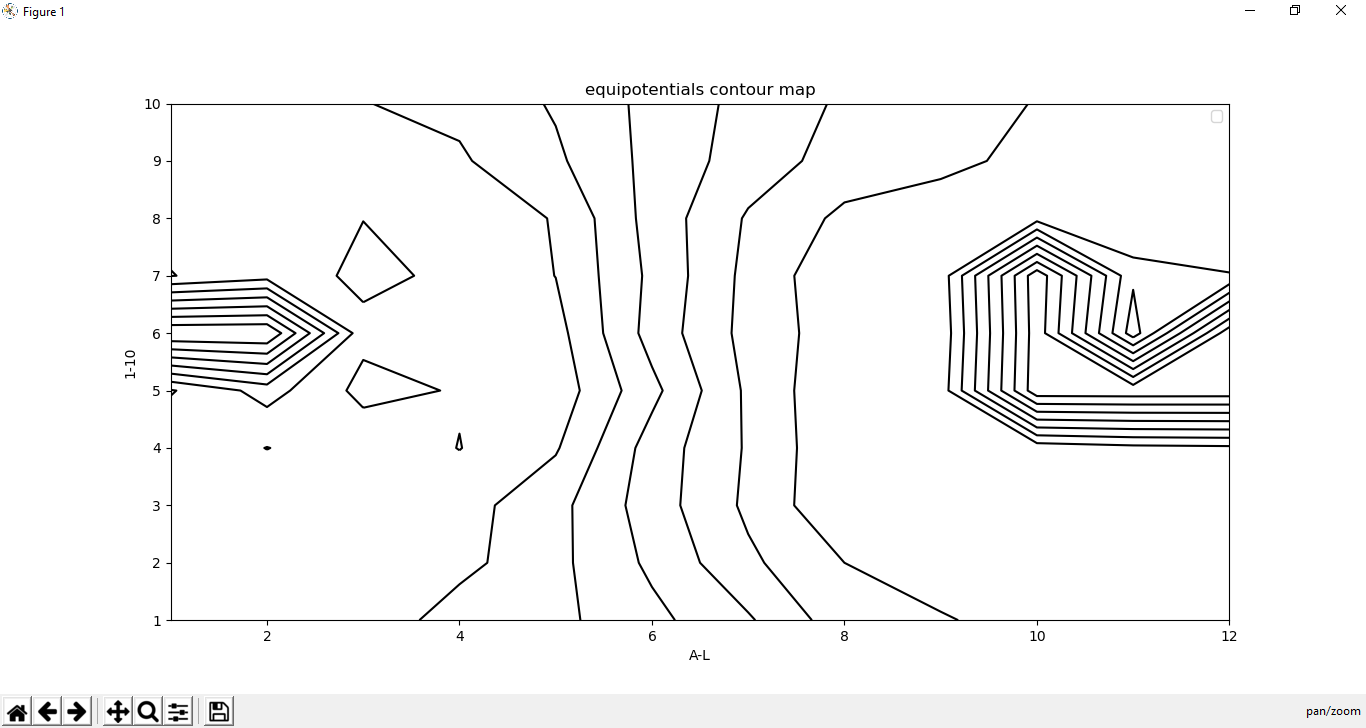
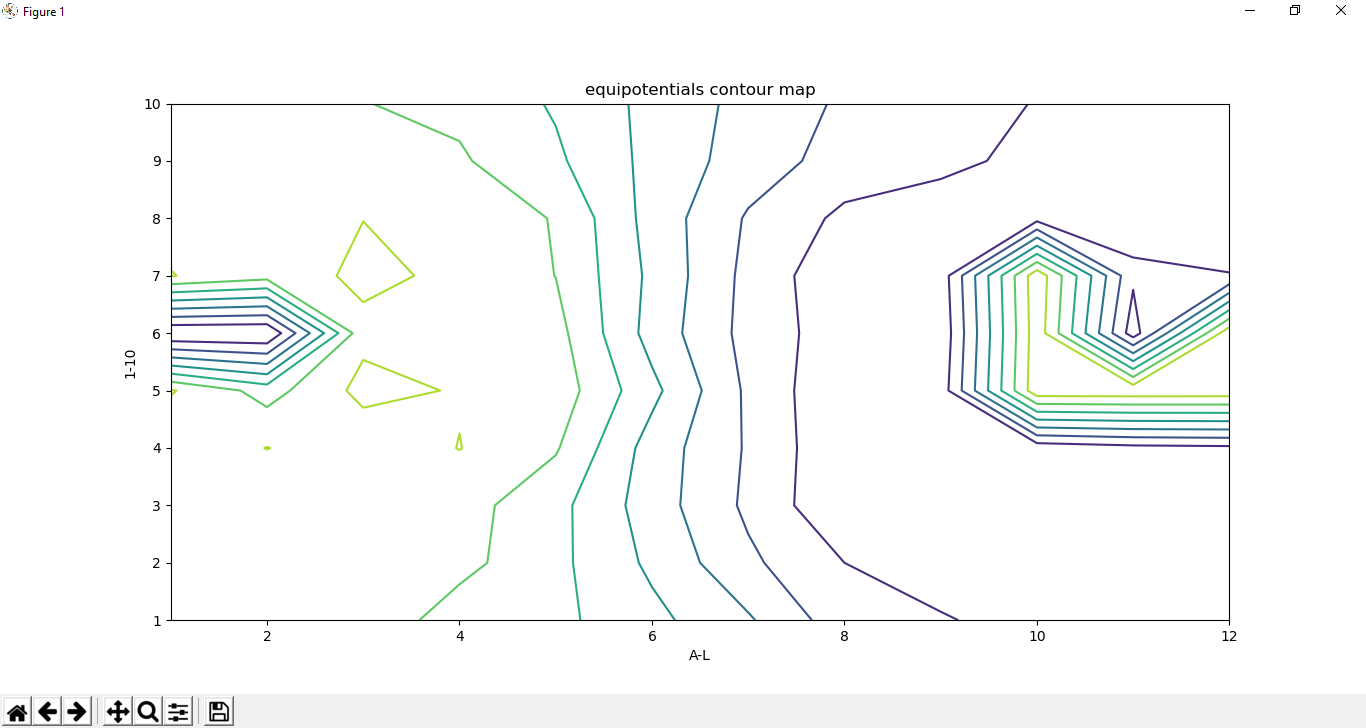
Spicy colors mmm

diff --git a/lab0.py b/lab0.py
@@ -11,10 +11,11 @@ with open('equipotentialvalues.csv', 'r') as fin:
     equipotentialValues = [line.strip().split(',') for line in equipotentialValues] # turn the contents of previously read csv into a 2-d array
     equipotentialValues = np.array(equipotentialValues) # cast python array into an np array
     equipotentialValues = equipotentialValues.astype(np.float) # case every element in the np array to be an np float type
-    print(equipotentialValues) # 2-d array of all voltage values
+    print(equipotentialValues) # 2-d np array of all voltage values
 
 X, Y = np.meshgrid(x, y) # X represents a 2-d array of all xcor values of each point in the grid
                          # Y represents a 2-d array of all ycor values of each point in the grid
+
 # X (10 rows and 12 columns)
 # [[1, 2, 3, 4, 5, 6, 7, 8, 9, 10, 11, 12],
 #  [1, 2, 3, 4, 5, 6, 7, 8, 9, 10, 11, 12],
@@ -41,10 +42,11 @@ X, Y = np.meshgrid(x, y) # X represents a 2-d array of all xcor values of each p
 
 Z = np.array(equipotentialValues) # store csv values as a 2-d array here
 
-plt.contour(X, Y, Z, colors="black") # create the contour map (this does not show the plot) using X, Y, Z coordinates with a black coloring
+plt.contour(X, Y, Z) # create the contour map (this does not show the plot) using X, Y, Z coordinates with a black coloring
 
 plt.xlabel("A-L") # x-axis label
 plt.ylabel("1-10") # y-axis label
+# plt.clabel(cp, inline=True, fontsize=8) # contour curve labels; doesn't work because contour lines are dense in some parts
 plt.title("equipotentials contour map") # title
-plt.legend(['equipotential field lines']) # legend
+# plt.legend(['equipotential field lines']) # legend
 plt.show() # show the plot
